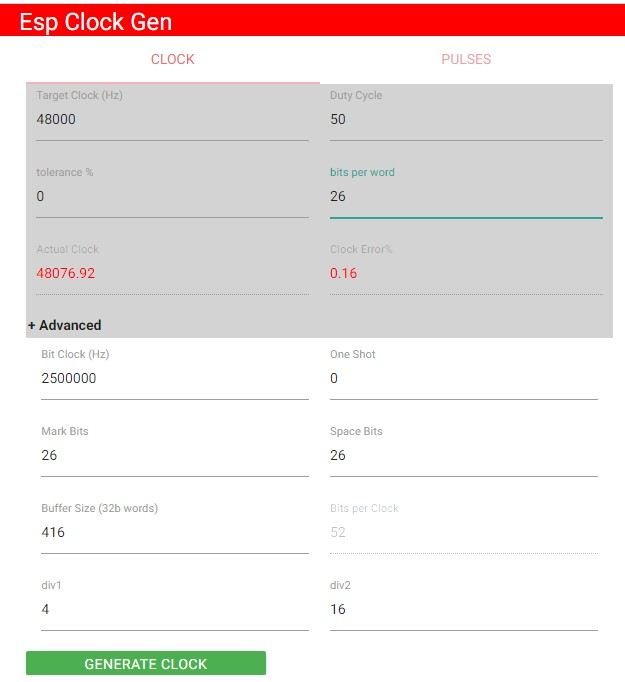
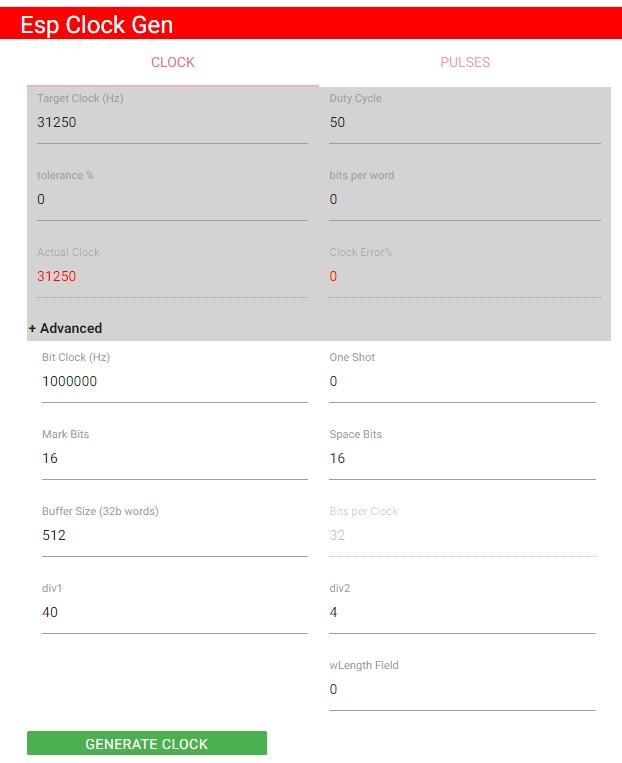
Support setting word length in advanced section

diff --git a/espI2sClockGen/data/index.htm b/espI2sClockGen/data/index.htm
@@ -83,6 +83,10 @@
 						  <input value="4" id="div2" type="text">
 						  <label class="active" for="div2">div2</label>
 						</div>
+						<div class="input-field col s6 offset-s6">
+						  <input value="0" id="wLength" type="text">
+						  <label class="active" for="wLength">wLength Field</label>
+						</div>
 					</div>
 					<a class="btn green" id="setclock" style="width:240px;height:24px"> Generate Clock</a>&nbsp 
 				</div>
@@ -159,7 +163,6 @@ $(function(){
 	var host = window.location.hostname;
 	var pulseFile = "";
 	var pulseFileList;
-	var calcState = 0;
 	
 	// ******************************************************************
 	// init()
@@ -245,11 +248,6 @@ $(function(){
 	});
 	
 	function setClock() {
-		/*if(calcState) {
-			calculateClock();
-			calculateDutyCycle();
-			calcState = 0;
-		}*/
 		var Hz = document.getElementById('Hz').value;
 		var markbits = document.getElementById('markbits').value;
 		var spacebits = document.getElementById('spacebits').value;
@@ -257,11 +255,12 @@ $(function(){
 		var oneshot = document.getElementById('oneshot').value;
 		var clockDiv1 = document.getElementById('div1').value;
 		var div2 = document.getElementById('div2').value;
+		var wLength = document.getElementById('wLength').value;
 		if(div2 <= 0) {
 			clockDiv1 = Hz;
 			div2 = -1;
 		}
-		$.get("http://" + host + "/setclock", {'clockDiv1':clockDiv1, 'div2':div2, 'markbits':markbits, 'spacebits':spacebits, 'count32':count32, 'oneshot':oneshot});
+		$.get("http://" + host + "/setclock", {'clockDiv1':clockDiv1, 'div2':div2, 'markbits':markbits, 'spacebits':spacebits, 'count32':count32, 'oneshot':oneshot, 'wLength':wLength});
 	}
 
 	function calculateClock() {

diff --git a/libraries/i2sTXcircular/i2sTXcircular.c b/libraries/i2sTXcircular/i2sTXcircular.c
@@ -225,7 +225,7 @@ float i2scGetRealBitClock() {
 }
 
 // set up parameters for i2scircular
-bool i2scInit(uint16_t count32, uint32_t clockDiv1, int16_t div2, uint16_t oneShot) {
+bool i2scInit(uint16_t count32, uint32_t clockDiv1, int16_t div2, uint16_t oneShot, uint16_t wLength) {
 	if(count32 > MAX_BUFFERDATA || count32 < 32) {
 		return false;
 	}
@@ -241,6 +241,8 @@ bool i2scInit(uint16_t count32, uint32_t clockDiv1, int16_t div2, uint16_t oneSh
 	slcBufRemainder = count32 - slcBufCnt * slcBufLen;
 	slcOneShot = oneShot;
 	i2scSetBitClock(clockDiv1, div2);
+	I2SC &=  ~(I2S_BITS_MOD << I2S_BITS_MOD_S);
+	I2SC |=  (wLength & I2S_BITS_MOD) << I2S_BITS_MOD_S;
 }
 
 //start up i2s, init and set clock before this
@@ -275,6 +277,7 @@ bool i2scBegin() {
 	I2SFC |= I2SDE; //Enable DMA
 	I2SCC &= ~((I2STXCMM << I2STXCM) | (I2SRXCMM << I2SRXCM)); //Set RX/TX CHAN_MOD=0
 	I2SC |= I2STXS; //Start transmission
+	debugVal[0] = I2SC;
 	return true;
 }
 

diff --git a/libraries/i2sTXcircular/i2sTXcircular.h b/libraries/i2sTXcircular/i2sTXcircular.h
@@ -11,7 +11,7 @@
 extern "C" {
 #endif
 
-bool i2scInit(uint16_t count32, uint32_t clockDiv1, int16_t div2, uint16_t oneShot);
+bool i2scInit(uint16_t count32, uint32_t clockDiv1, int16_t div2, uint16_t oneShot, uint16_t wLength);
 bool i2scBegin();
 void i2scEnd();
 void i2scSetBitClock(uint32_t clockDiv1, int16_t div2);

diff --git a/README.md b/README.md
@@ -29,6 +29,7 @@ A clock and pulse generator using the I2S interface on an esp8266
 - Tolerance may be increased to find a match with most bits that meets tolerance
 - bitsPerWord may be entered to find match that uses this number per I2S word cycle
 - A range may be put in to bitsPerWord to allow searching e.g. 24,31
+- Word length (0-15) may be put into advanced section. This does not effect the clock but does change the word select signal to be from 16 - 31 bits of raw bit clock
 
 
 
